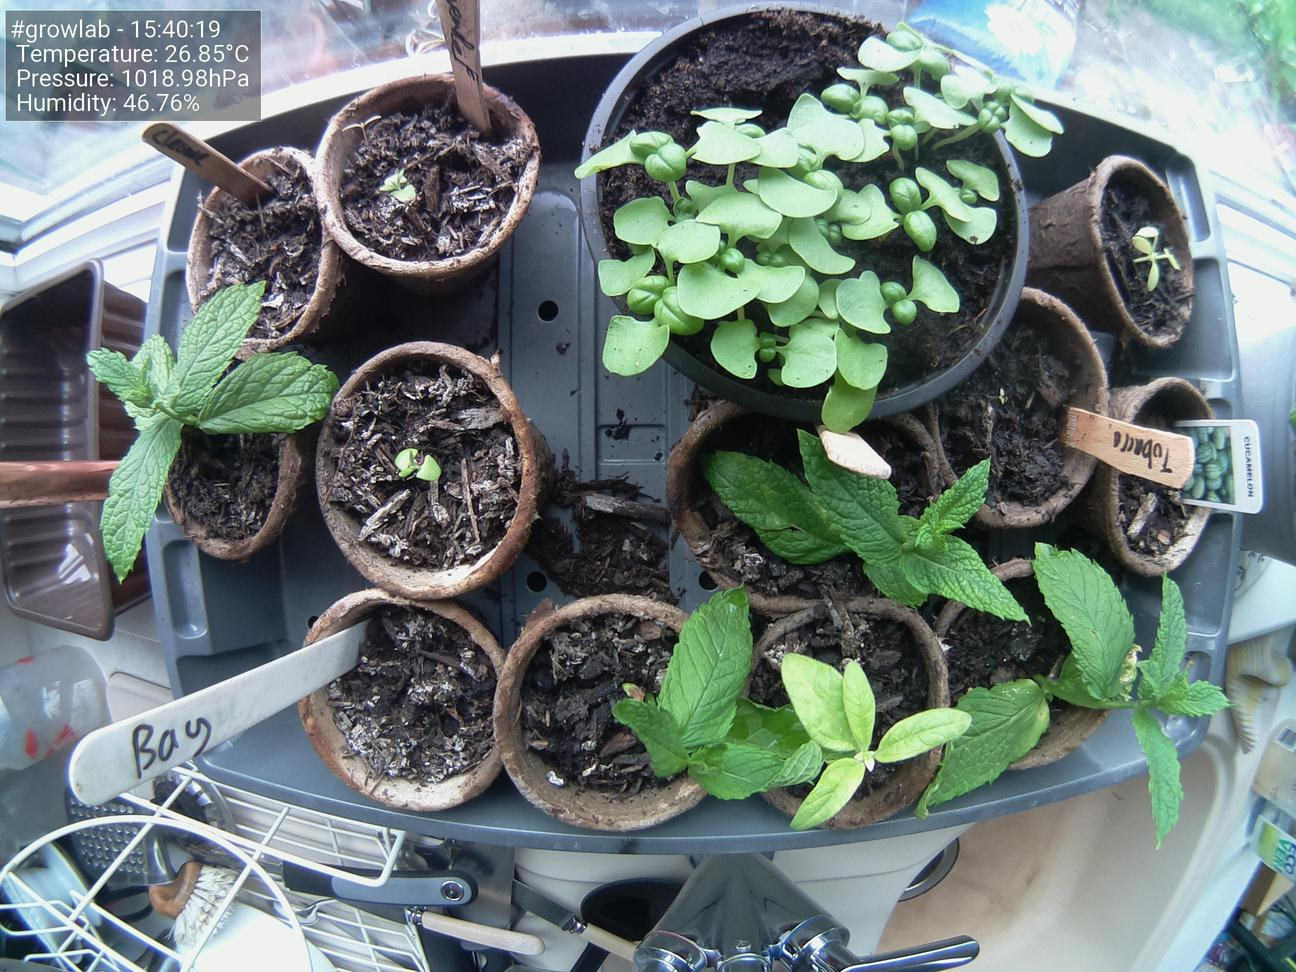
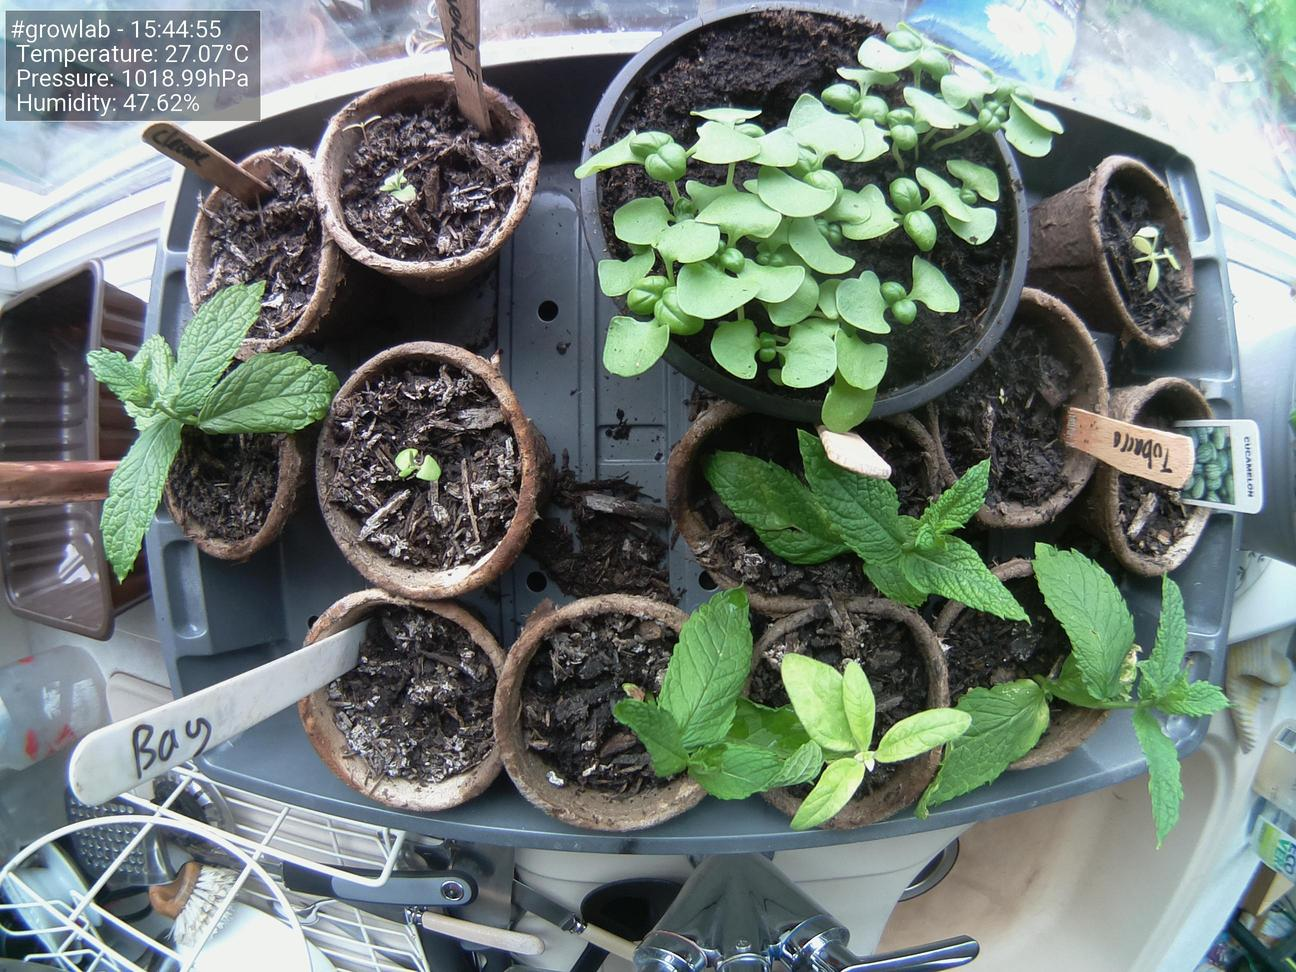
Update images at Thu  8 Jul 15:45:04 BST 2021

diff --git a/docs/index.html b/docs/index.html
@@ -47,19 +47,19 @@
                         <tbody>
                             <tr>
                                 <td>Time</td>
-                                <td>15:40:19</td>
+                                <td>15:44:55</td>
                             </tr>
                             <tr>
                                 <td>Temperature</td>
-                                <td>26.85°C</td>
+                                <td>27.07°C</td>
                             </tr>
                             <tr>
                                 <td>Humidity</td>
-                                <td>46.76%</td>
+                                <td>47.62%</td>
                             </tr>
                             <tr>
                                 <td>Pressure</td>
-                                <td>1018.98hPa</td>
+                                <td>1018.99hPa</td>
                             </tr>
                         </tbody>
                     </table>
@@ -67,7 +67,7 @@
 
                 <h5>Latest image</h5>
                 <div style="width: 85%;">
-                            <img class="figure-img img-fluid rounded" src="./preview.jpg?uid=1625755227.9176598">
+                            <img class="figure-img img-fluid rounded" src="./preview.jpg?uid=1625755504.4083252">
                 </div>
             </div>
         </div>
